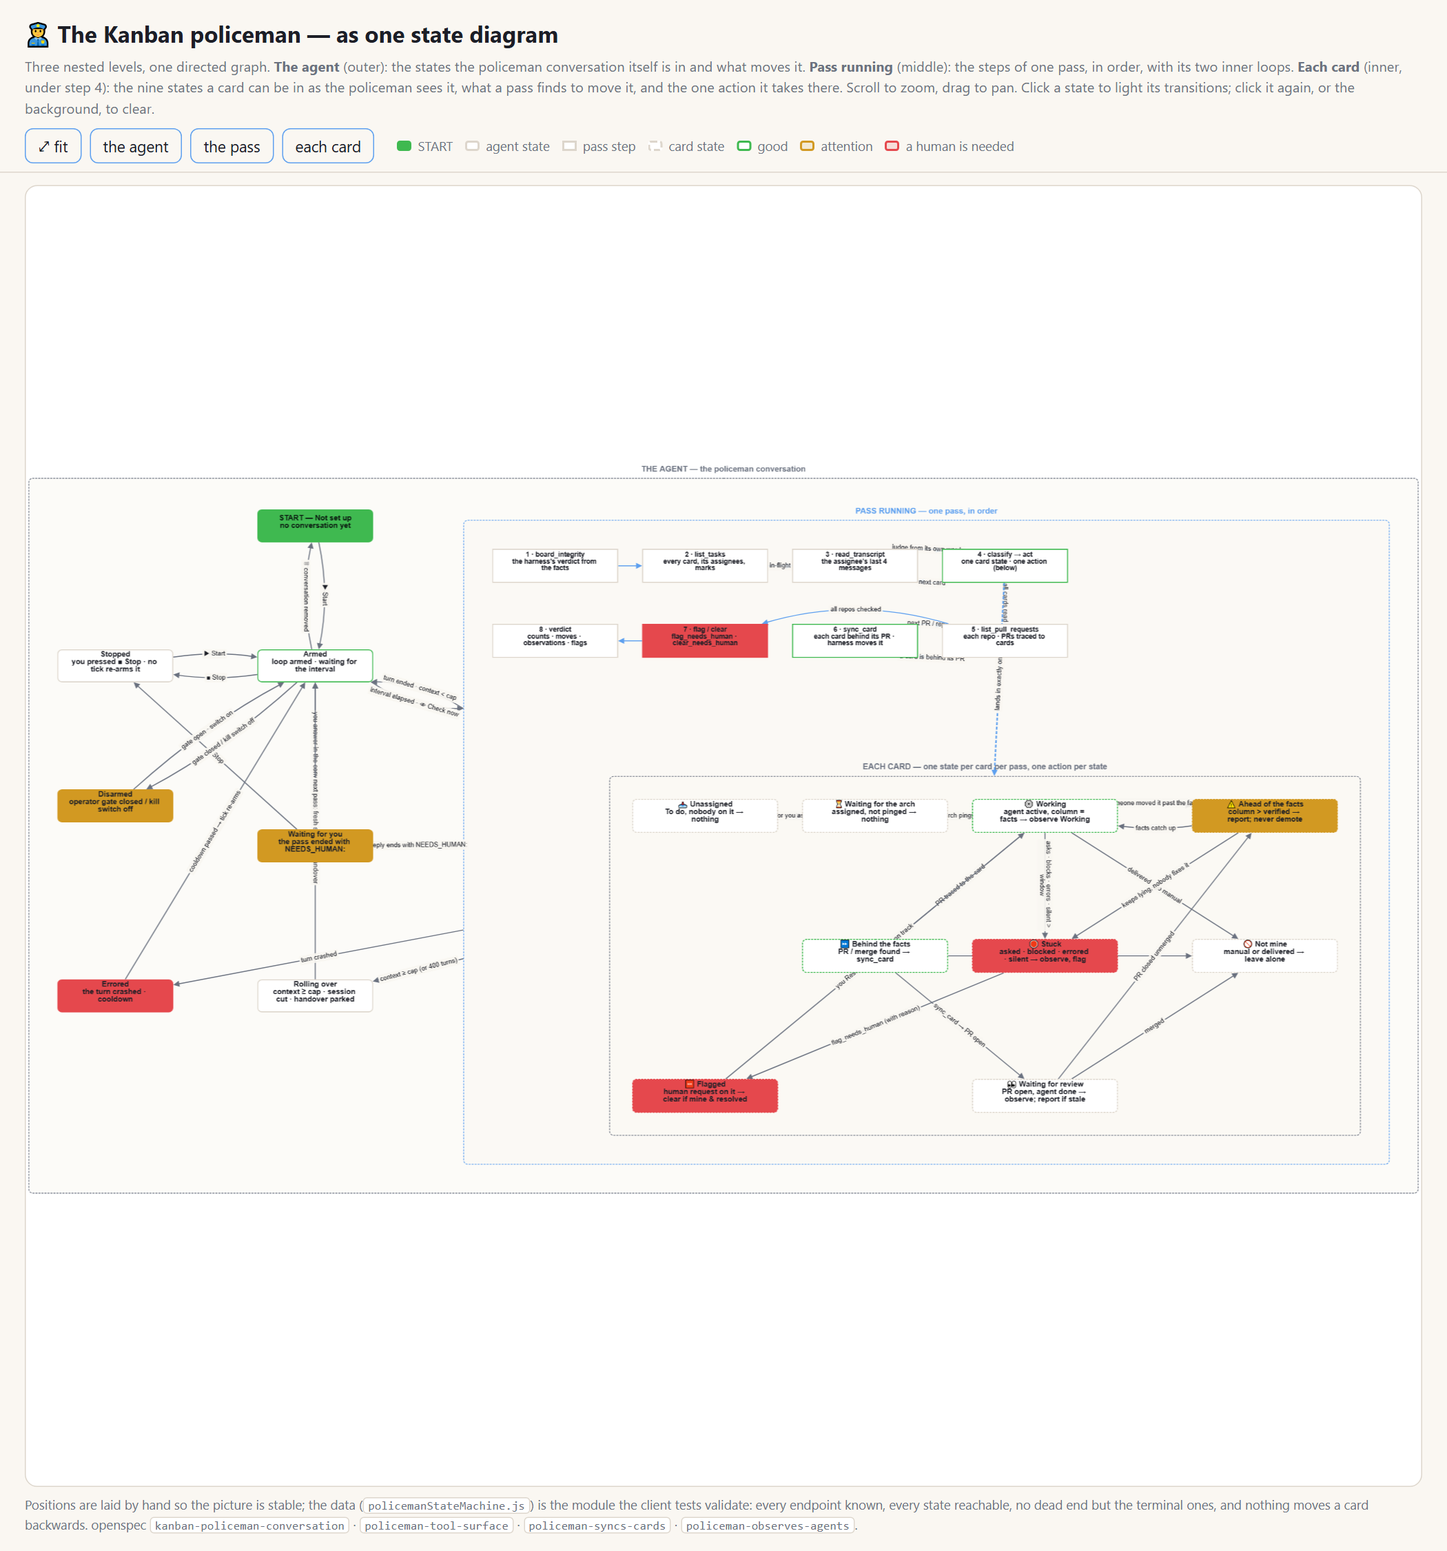
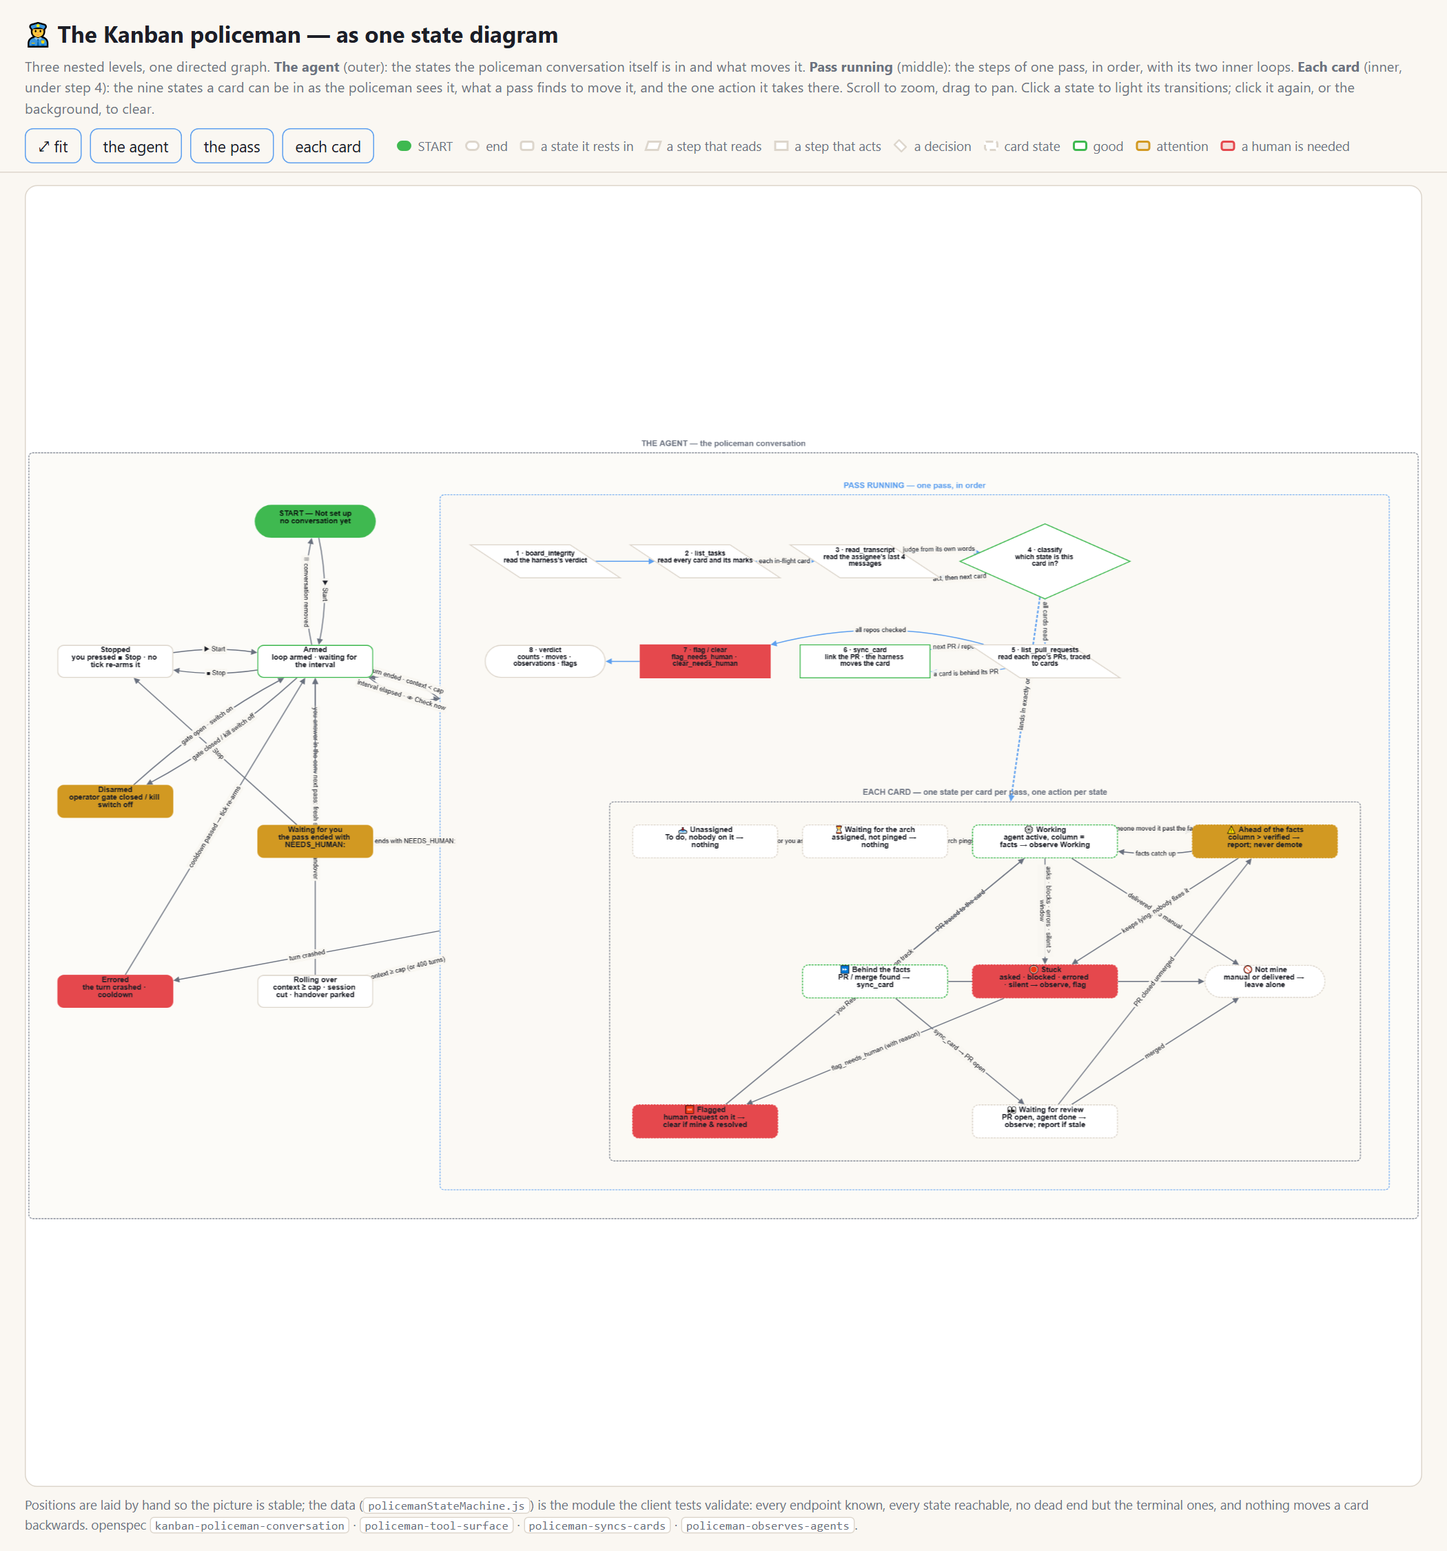
understanding app: flowchart shapes — pills for start/end, parallelograms for reads, rectangles for acts, a diamond for the classify decision, rounded boxes for states; legend follows

diff --git a/client/src/components/taskgraph/policemanStateMachine.js b/client/src/components/taskgraph/policemanStateMachine.js
@@ -13,7 +13,17 @@
 // Pure data + validation (node --test); positions are preset so the picture is stable and
 // readable — a layout engine would redraw it differently every time.
 
-const S = (id, label, sub, x, y, opts = {}) => ({ id, label, sub, x, y, kind: 'state', tone: 'plain', ...opts });
+// Flowchart shapes (the legend follows these): terminal = start / end pill · state = rounded box
+// (a state the agent or a card rests in) · io = parallelogram (a step that READS) · process =
+// rectangle (a step that ACTS) · decision = diamond (a branch).
+export const SHAPES = {
+  terminal: 'start / end',
+  state: 'a state it rests in',
+  io: 'a step that reads',
+  process: 'a step that acts',
+  decision: 'a decision',
+};
+const S = (id, label, sub, x, y, opts = {}) => ({ id, label, sub, x, y, kind: 'state', tone: 'plain', shape: 'state', ...opts });
 
 export const NODES = [
   // ---- groups (compound parents) ---------------------------------------------------------------
@@ -22,7 +32,7 @@ export const NODES = [
   { id: 'cards', label: 'EACH CARD — one state per card per pass, one action per state', kind: 'group', parent: 'pass' },
 
   // ---- level 1: the agent ------------------------------------------------------------------
-  S('off', 'START — Not set up', 'no conversation yet', -900, -80, { parent: 'agent', tone: 'start' }),
+  S('off', 'START — Not set up', 'no conversation yet', -900, -80, { parent: 'agent', tone: 'start', shape: 'terminal' }),
   S('armed', 'Armed', 'loop armed · waiting for the interval', -900, 200, { parent: 'agent', tone: 'ok' }),
   S('stopped', 'Stopped', 'you pressed ■ Stop · no tick re-arms it', -1300, 200, { parent: 'agent' }),
   S('paused', 'Disarmed', 'operator gate closed / kill switch off', -1300, 480, { parent: 'agent', tone: 'warn' }),
@@ -31,25 +41,25 @@ export const NODES = [
   S('errored', 'Errored', 'the turn crashed · cooldown', -1300, 860, { parent: 'agent', tone: 'bad' }),
 
   // ---- level 2: the pass (inside "pass") ---------------------------------------------------
-  S('s1', '1 · board_integrity', 'the harness’s verdict from the facts', -420, 0, { parent: 'pass', kind: 'step' }),
-  S('s2', '2 · list_tasks', 'every card, its assignees, marks', -120, 0, { parent: 'pass', kind: 'step' }),
-  S('s3', '3 · read_transcript', 'the assignee’s last 4 messages', 180, 0, { parent: 'pass', kind: 'step' }),
-  S('s4', '4 · classify → act', 'one card state · one action (below)', 480, 0, { parent: 'pass', kind: 'step', tone: 'ok' }),
-  S('s5', '5 · list_pull_requests', 'each repo · PRs traced to cards', 480, 150, { parent: 'pass', kind: 'step' }),
-  S('s6', '6 · sync_card', 'each card behind its PR · harness moves it', 180, 150, { parent: 'pass', kind: 'step', tone: 'ok' }),
-  S('s7', '7 · flag / clear', 'flag_needs_human · clear_needs_human', -120, 150, { parent: 'pass', kind: 'step', tone: 'bad' }),
-  S('s8', '8 · verdict', 'counts · moves · observations · flags', -420, 150, { parent: 'pass', kind: 'step' }),
+  S('s1', '1 · board_integrity', 'read the harness’s verdict', -440, 0, { parent: 'pass', kind: 'step', shape: 'io' }),
+  S('s2', '2 · list_tasks', 'read every card and its marks', -120, 0, { parent: 'pass', kind: 'step', shape: 'io' }),
+  S('s3', '3 · read_transcript', 'read the assignee’s last 4 messages', 200, 0, { parent: 'pass', kind: 'step', shape: 'io' }),
+  S('s4', '4 · classify', 'which state is this card in?', 560, 0, { parent: 'pass', kind: 'step', tone: 'ok', shape: 'decision' }),
+  S('s5', '5 · list_pull_requests', 'read each repo’s PRs, traced to cards', 560, 200, { parent: 'pass', kind: 'step', shape: 'io' }),
+  S('s6', '6 · sync_card', 'link the PR · the harness moves the card', 200, 200, { parent: 'pass', kind: 'step', tone: 'ok', shape: 'process' }),
+  S('s7', '7 · flag / clear', 'flag_needs_human · clear_needs_human', -120, 200, { parent: 'pass', kind: 'step', tone: 'bad', shape: 'process' }),
+  S('s8', '8 · verdict', 'counts · moves · observations · flags', -440, 200, { parent: 'pass', kind: 'step', shape: 'terminal' }),
 
   // ---- level 3: each card (inside "cards") -------------------------------------------------
-  S('c-unassigned', '📥 Unassigned', 'To do, nobody on it → nothing', -120, 500, { parent: 'cards', kind: 'card' }),
-  S('c-waiting', '⏳ Waiting for the arch', 'assigned, not pinged → nothing', 220, 500, { parent: 'cards', kind: 'card' }),
-  S('c-working', '⚙ Working', 'agent active, column = facts → observe Working', 560, 500, { parent: 'cards', kind: 'card', tone: 'ok' }),
-  S('c-ahead', '⚠ Ahead of the facts', 'column > verified → report; never demote', 1000, 500, { parent: 'cards', kind: 'card', tone: 'warn' }),
-  S('c-behind', '⏩ Behind the facts', 'PR / merge found → sync_card', 220, 780, { parent: 'cards', kind: 'card', tone: 'ok' }),
-  S('c-stuck', '🛑 Stuck', 'asked · blocked · errored · silent → observe, flag', 560, 780, { parent: 'cards', kind: 'card', tone: 'bad' }),
-  S('c-skip', '🚫 Not mine', 'manual or delivered → leave alone', 1000, 780, { parent: 'cards', kind: 'card' }),
-  S('c-flagged', '🆘 Flagged', 'human request on it → clear if mine & resolved', -120, 1060, { parent: 'cards', kind: 'card', tone: 'bad' }),
-  S('c-review', '👀 Waiting for review', 'PR open, agent done → observe; report if stale', 560, 1060, { parent: 'cards', kind: 'card' }),
+  S('c-unassigned', '📥 Unassigned', 'To do, nobody on it → nothing', -120, 560, { parent: 'cards', kind: 'card' }),
+  S('c-waiting', '⏳ Waiting for the arch', 'assigned, not pinged → nothing', 220, 560, { parent: 'cards', kind: 'card' }),
+  S('c-working', '⚙ Working', 'agent active, column = facts → observe Working', 560, 560, { parent: 'cards', kind: 'card', tone: 'ok' }),
+  S('c-ahead', '⚠ Ahead of the facts', 'column > verified → report; never demote', 1000, 560, { parent: 'cards', kind: 'card', tone: 'warn' }),
+  S('c-behind', '⏩ Behind the facts', 'PR / merge found → sync_card', 220, 840, { parent: 'cards', kind: 'card', tone: 'ok' }),
+  S('c-stuck', '🛑 Stuck', 'asked · blocked · errored · silent → observe, flag', 560, 840, { parent: 'cards', kind: 'card', tone: 'bad' }),
+  S('c-skip', '🚫 Not mine', 'manual or delivered → leave alone', 1000, 840, { parent: 'cards', kind: 'card', shape: 'terminal' }),
+  S('c-flagged', '🆘 Flagged', 'human request on it → clear if mine & resolved', -120, 1120, { parent: 'cards', kind: 'card', tone: 'bad' }),
+  S('c-review', '👀 Waiting for review', 'PR open, agent done → observe; report if stale', 560, 1120, { parent: 'cards', kind: 'card' }),
 ];
 
 const E = (source, target, label, kind = 'lifecycle') => ({ id: `${source}->${target}`, source, target, label, kind });
@@ -77,7 +87,7 @@ export const EDGES = [
   E('s1', 's2', '', 'flow'),
   E('s2', 's3', 'each in-flight card', 'flow'),
   E('s3', 's4', 'judge from its own words', 'flow'),
-  E('s4', 's3', 'next card', 'flow'),
+  E('s4', 's3', 'act, then next card', 'flow'),
   E('s4', 's5', 'all cards read', 'flow'),
   E('s5', 's6', 'a card is behind its PR', 'flow'),
   E('s6', 's5', 'next PR / repo', 'flow'),
@@ -106,9 +116,9 @@ export const EDGES = [
 export function toElements() {
   return [
     ...NODES.map((n) => ({
-      data: { id: n.id, label: n.label, sub: n.sub || '', kind: n.kind, tone: n.tone || 'plain', parent: n.parent || undefined },
+      data: { id: n.id, label: n.label, sub: n.sub || '', kind: n.kind, tone: n.tone || 'plain', shape: n.shape || (n.kind === 'group' ? 'group' : 'state'), parent: n.parent || undefined },
       position: n.kind === 'group' ? undefined : { x: n.x, y: n.y },
-      classes: `${n.kind} tone-${n.tone || 'plain'}`,
+      classes: `${n.kind} tone-${n.tone || 'plain'} shape-${n.shape || (n.kind === 'group' ? 'group' : 'state')}`,
     })),
     ...EDGES.map((e) => ({ data: { id: e.id, source: e.source, target: e.target, label: e.label, kind: e.kind, curve: e.curve || 'bezier' }, classes: e.kind })),
   ];

diff --git a/understanding-app/policemanStateMachine.js b/understanding-app/policemanStateMachine.js
@@ -14,7 +14,17 @@
 // Pure data + validation (node --test); positions are preset so the picture is stable and
 // readable — a layout engine would redraw it differently every time.
 
-const S = (id, label, sub, x, y, opts = {}) => ({ id, label, sub, x, y, kind: 'state', tone: 'plain', ...opts });
+// Flowchart shapes (the legend follows these): terminal = start / end pill · state = rounded box
+// (a state the agent or a card rests in) · io = parallelogram (a step that READS) · process =
+// rectangle (a step that ACTS) · decision = diamond (a branch).
+export const SHAPES = {
+  terminal: 'start / end',
+  state: 'a state it rests in',
+  io: 'a step that reads',
+  process: 'a step that acts',
+  decision: 'a decision',
+};
+const S = (id, label, sub, x, y, opts = {}) => ({ id, label, sub, x, y, kind: 'state', tone: 'plain', shape: 'state', ...opts });
 
 export const NODES = [
   // ---- groups (compound parents) ---------------------------------------------------------------
@@ -23,7 +33,7 @@ export const NODES = [
   { id: 'cards', label: 'EACH CARD — one state per card per pass, one action per state', kind: 'group', parent: 'pass' },
 
   // ---- level 1: the agent ------------------------------------------------------------------
-  S('off', 'START — Not set up', 'no conversation yet', -900, -80, { parent: 'agent', tone: 'start' }),
+  S('off', 'START — Not set up', 'no conversation yet', -900, -80, { parent: 'agent', tone: 'start', shape: 'terminal' }),
   S('armed', 'Armed', 'loop armed · waiting for the interval', -900, 200, { parent: 'agent', tone: 'ok' }),
   S('stopped', 'Stopped', 'you pressed ■ Stop · no tick re-arms it', -1300, 200, { parent: 'agent' }),
   S('paused', 'Disarmed', 'operator gate closed / kill switch off', -1300, 480, { parent: 'agent', tone: 'warn' }),
@@ -32,25 +42,25 @@ export const NODES = [
   S('errored', 'Errored', 'the turn crashed · cooldown', -1300, 860, { parent: 'agent', tone: 'bad' }),
 
   // ---- level 2: the pass (inside "pass") ---------------------------------------------------
-  S('s1', '1 · board_integrity', 'the harness’s verdict from the facts', -420, 0, { parent: 'pass', kind: 'step' }),
-  S('s2', '2 · list_tasks', 'every card, its assignees, marks', -120, 0, { parent: 'pass', kind: 'step' }),
-  S('s3', '3 · read_transcript', 'the assignee’s last 4 messages', 180, 0, { parent: 'pass', kind: 'step' }),
-  S('s4', '4 · classify → act', 'one card state · one action (below)', 480, 0, { parent: 'pass', kind: 'step', tone: 'ok' }),
-  S('s5', '5 · list_pull_requests', 'each repo · PRs traced to cards', 480, 150, { parent: 'pass', kind: 'step' }),
-  S('s6', '6 · sync_card', 'each card behind its PR · harness moves it', 180, 150, { parent: 'pass', kind: 'step', tone: 'ok' }),
-  S('s7', '7 · flag / clear', 'flag_needs_human · clear_needs_human', -120, 150, { parent: 'pass', kind: 'step', tone: 'bad' }),
-  S('s8', '8 · verdict', 'counts · moves · observations · flags', -420, 150, { parent: 'pass', kind: 'step' }),
+  S('s1', '1 · board_integrity', 'read the harness’s verdict', -440, 0, { parent: 'pass', kind: 'step', shape: 'io' }),
+  S('s2', '2 · list_tasks', 'read every card and its marks', -120, 0, { parent: 'pass', kind: 'step', shape: 'io' }),
+  S('s3', '3 · read_transcript', 'read the assignee’s last 4 messages', 200, 0, { parent: 'pass', kind: 'step', shape: 'io' }),
+  S('s4', '4 · classify', 'which state is this card in?', 560, 0, { parent: 'pass', kind: 'step', tone: 'ok', shape: 'decision' }),
+  S('s5', '5 · list_pull_requests', 'read each repo’s PRs, traced to cards', 560, 200, { parent: 'pass', kind: 'step', shape: 'io' }),
+  S('s6', '6 · sync_card', 'link the PR · the harness moves the card', 200, 200, { parent: 'pass', kind: 'step', tone: 'ok', shape: 'process' }),
+  S('s7', '7 · flag / clear', 'flag_needs_human · clear_needs_human', -120, 200, { parent: 'pass', kind: 'step', tone: 'bad', shape: 'process' }),
+  S('s8', '8 · verdict', 'counts · moves · observations · flags', -440, 200, { parent: 'pass', kind: 'step', shape: 'terminal' }),
 
   // ---- level 3: each card (inside "cards") -------------------------------------------------
-  S('c-unassigned', '📥 Unassigned', 'To do, nobody on it → nothing', -120, 500, { parent: 'cards', kind: 'card' }),
-  S('c-waiting', '⏳ Waiting for the arch', 'assigned, not pinged → nothing', 220, 500, { parent: 'cards', kind: 'card' }),
-  S('c-working', '⚙ Working', 'agent active, column = facts → observe Working', 560, 500, { parent: 'cards', kind: 'card', tone: 'ok' }),
-  S('c-ahead', '⚠ Ahead of the facts', 'column > verified → report; never demote', 1000, 500, { parent: 'cards', kind: 'card', tone: 'warn' }),
-  S('c-behind', '⏩ Behind the facts', 'PR / merge found → sync_card', 220, 780, { parent: 'cards', kind: 'card', tone: 'ok' }),
-  S('c-stuck', '🛑 Stuck', 'asked · blocked · errored · silent → observe, flag', 560, 780, { parent: 'cards', kind: 'card', tone: 'bad' }),
-  S('c-skip', '🚫 Not mine', 'manual or delivered → leave alone', 1000, 780, { parent: 'cards', kind: 'card' }),
-  S('c-flagged', '🆘 Flagged', 'human request on it → clear if mine & resolved', -120, 1060, { parent: 'cards', kind: 'card', tone: 'bad' }),
-  S('c-review', '👀 Waiting for review', 'PR open, agent done → observe; report if stale', 560, 1060, { parent: 'cards', kind: 'card' }),
+  S('c-unassigned', '📥 Unassigned', 'To do, nobody on it → nothing', -120, 560, { parent: 'cards', kind: 'card' }),
+  S('c-waiting', '⏳ Waiting for the arch', 'assigned, not pinged → nothing', 220, 560, { parent: 'cards', kind: 'card' }),
+  S('c-working', '⚙ Working', 'agent active, column = facts → observe Working', 560, 560, { parent: 'cards', kind: 'card', tone: 'ok' }),
+  S('c-ahead', '⚠ Ahead of the facts', 'column > verified → report; never demote', 1000, 560, { parent: 'cards', kind: 'card', tone: 'warn' }),
+  S('c-behind', '⏩ Behind the facts', 'PR / merge found → sync_card', 220, 840, { parent: 'cards', kind: 'card', tone: 'ok' }),
+  S('c-stuck', '🛑 Stuck', 'asked · blocked · errored · silent → observe, flag', 560, 840, { parent: 'cards', kind: 'card', tone: 'bad' }),
+  S('c-skip', '🚫 Not mine', 'manual or delivered → leave alone', 1000, 840, { parent: 'cards', kind: 'card', shape: 'terminal' }),
+  S('c-flagged', '🆘 Flagged', 'human request on it → clear if mine & resolved', -120, 1120, { parent: 'cards', kind: 'card', tone: 'bad' }),
+  S('c-review', '👀 Waiting for review', 'PR open, agent done → observe; report if stale', 560, 1120, { parent: 'cards', kind: 'card' }),
 ];
 
 const E = (source, target, label, kind = 'lifecycle') => ({ id: `${source}->${target}`, source, target, label, kind });
@@ -78,7 +88,7 @@ export const EDGES = [
   E('s1', 's2', '', 'flow'),
   E('s2', 's3', 'each in-flight card', 'flow'),
   E('s3', 's4', 'judge from its own words', 'flow'),
-  E('s4', 's3', 'next card', 'flow'),
+  E('s4', 's3', 'act, then next card', 'flow'),
   E('s4', 's5', 'all cards read', 'flow'),
   E('s5', 's6', 'a card is behind its PR', 'flow'),
   E('s6', 's5', 'next PR / repo', 'flow'),
@@ -107,9 +117,9 @@ export const EDGES = [
 export function toElements() {
   return [
     ...NODES.map((n) => ({
-      data: { id: n.id, label: n.label, sub: n.sub || '', kind: n.kind, tone: n.tone || 'plain', parent: n.parent || undefined },
+      data: { id: n.id, label: n.label, sub: n.sub || '', kind: n.kind, tone: n.tone || 'plain', shape: n.shape || (n.kind === 'group' ? 'group' : 'state'), parent: n.parent || undefined },
       position: n.kind === 'group' ? undefined : { x: n.x, y: n.y },
-      classes: `${n.kind} tone-${n.tone || 'plain'}`,
+      classes: `${n.kind} tone-${n.tone || 'plain'} shape-${n.shape || (n.kind === 'group' ? 'group' : 'state')}`,
     })),
     ...EDGES.map((e) => ({ data: { id: e.id, source: e.source, target: e.target, label: e.label, kind: e.kind, curve: e.curve || 'bezier' }, classes: e.kind })),
   ];

diff --git a/understanding-app/app.js b/understanding-app/app.js
@@ -29,6 +29,12 @@ const cy = window.cytoscape({
     { selector: 'edge.flow', style: { 'line-color': css('--accent'), 'target-arrow-color': css('--accent') } },
     { selector: 'edge.link', style: { 'line-style': 'dashed', 'line-color': css('--accent'), 'target-arrow-color': css('--accent'), 'width': 3 } },
     { selector: 'edge.card', style: { 'line-color': css('--muted') } },
+    // Flowchart shapes (SHAPES in the data module): pill · rounded state · parallelogram · rectangle · diamond.
+    { selector: 'node.shape-terminal', style: { 'shape': 'round-rectangle', 'corner-radius': '32px', 'width': 240, 'height': 64 } },
+    { selector: 'node.shape-state', style: { 'shape': 'round-rectangle', 'corner-radius': '12px' } },
+    { selector: 'node.shape-io', style: { 'shape': 'rhomboid', 'width': 300, 'height': 66, 'text-max-width': 200 } },
+    { selector: 'node.shape-process', style: { 'shape': 'rectangle', 'width': 260, 'height': 66 } },
+    { selector: 'node.shape-decision', style: { 'shape': 'diamond', 'width': 340, 'height': 150, 'text-max-width': 150, 'font-size': 13.5 } },
     { selector: 'node.tone-start', style: { 'background-color': css('--green'), 'border-color': css('--green'), 'color': '#0b1a10' } },
     { selector: 'edge.lit', style: { 'line-color': css('--accent'), 'target-arrow-color': css('--accent'), 'width': 4, 'color': css('--accent'), 'font-weight': 700, 'font-size': 14, 'z-index': 9 } },
     { selector: 'node.lit', style: { 'border-width': 4, 'border-color': css('--accent') } },

diff --git a/understanding-app/app.css b/understanding-app/app.css
@@ -14,5 +14,5 @@ main { flex: 1 1 auto; min-height: 0; display: flex; flex-direction: column; pad
 .cybar { display: flex; flex-wrap: wrap; align-items: center; gap: 8px; }
 .legend { color: var(--muted); font-size: 12.5px; display: inline-flex; align-items: center; gap: 6px; flex-wrap: wrap; margin-left: 8px; }
 .sw { display: inline-block; width: 14px; height: 10px; border: 2px solid var(--border); border-radius: 3px; background: var(--surface); margin-left: 6px; }
-.sw-start { background: var(--green); border-color: var(--green); } .sw-step { border-radius: 0; } .sw-card { border-style: dashed; } .sw-ok { border-color: var(--green); } .sw-warn { border-color: var(--amber); background: rgba(210,153,34,.15); } .sw-bad { border-color: var(--red); background: rgba(229,72,77,.15); }
+.sw-pill { border-radius: 999px; } .sw-start { background: var(--green); border-color: var(--green); } .sw-step { border-radius: 0; } .sw-io { border-radius: 0; transform: skewX(-18deg); } .sw-decision { border-radius: 1px; transform: rotate(45deg) scale(.8); } .sw-card { border-style: dashed; } .sw-ok { border-color: var(--green); } .sw-warn { border-color: var(--amber); background: rgba(210,153,34,.15); } .sw-bad { border-color: var(--red); background: rgba(229,72,77,.15); }
 .cy { flex: 1 1 auto; min-height: 560px; width: 100%; border: 1px solid var(--border); border-radius: 12px; background: var(--surface); }

diff --git a/understanding-app/index.html b/understanding-app/index.html
@@ -15,7 +15,7 @@
     <button class="btn" id="cy-agent">the agent</button>
     <button class="btn" id="cy-pass">the pass</button>
     <button class="btn" id="cy-cards">each card</button>
-    <span class="legend"><i class="sw sw-start"></i> START <i class="sw sw-state"></i> agent state <i class="sw sw-step"></i> pass step <i class="sw sw-card"></i> card state <i class="sw sw-ok"></i> good <i class="sw sw-warn"></i> attention <i class="sw sw-bad"></i> a human is needed</span>
+    <span class="legend"><i class="sw sw-pill sw-start"></i> START <i class="sw sw-pill"></i> end <i class="sw sw-state"></i> a state it rests in <i class="sw sw-io"></i> a step that reads <i class="sw sw-step"></i> a step that acts <i class="sw sw-decision"></i> a decision <i class="sw sw-card"></i> card state <i class="sw sw-ok"></i> good <i class="sw sw-warn"></i> attention <i class="sw sw-bad"></i> a human is needed</span>
   </div>
 </header>
 <main>
